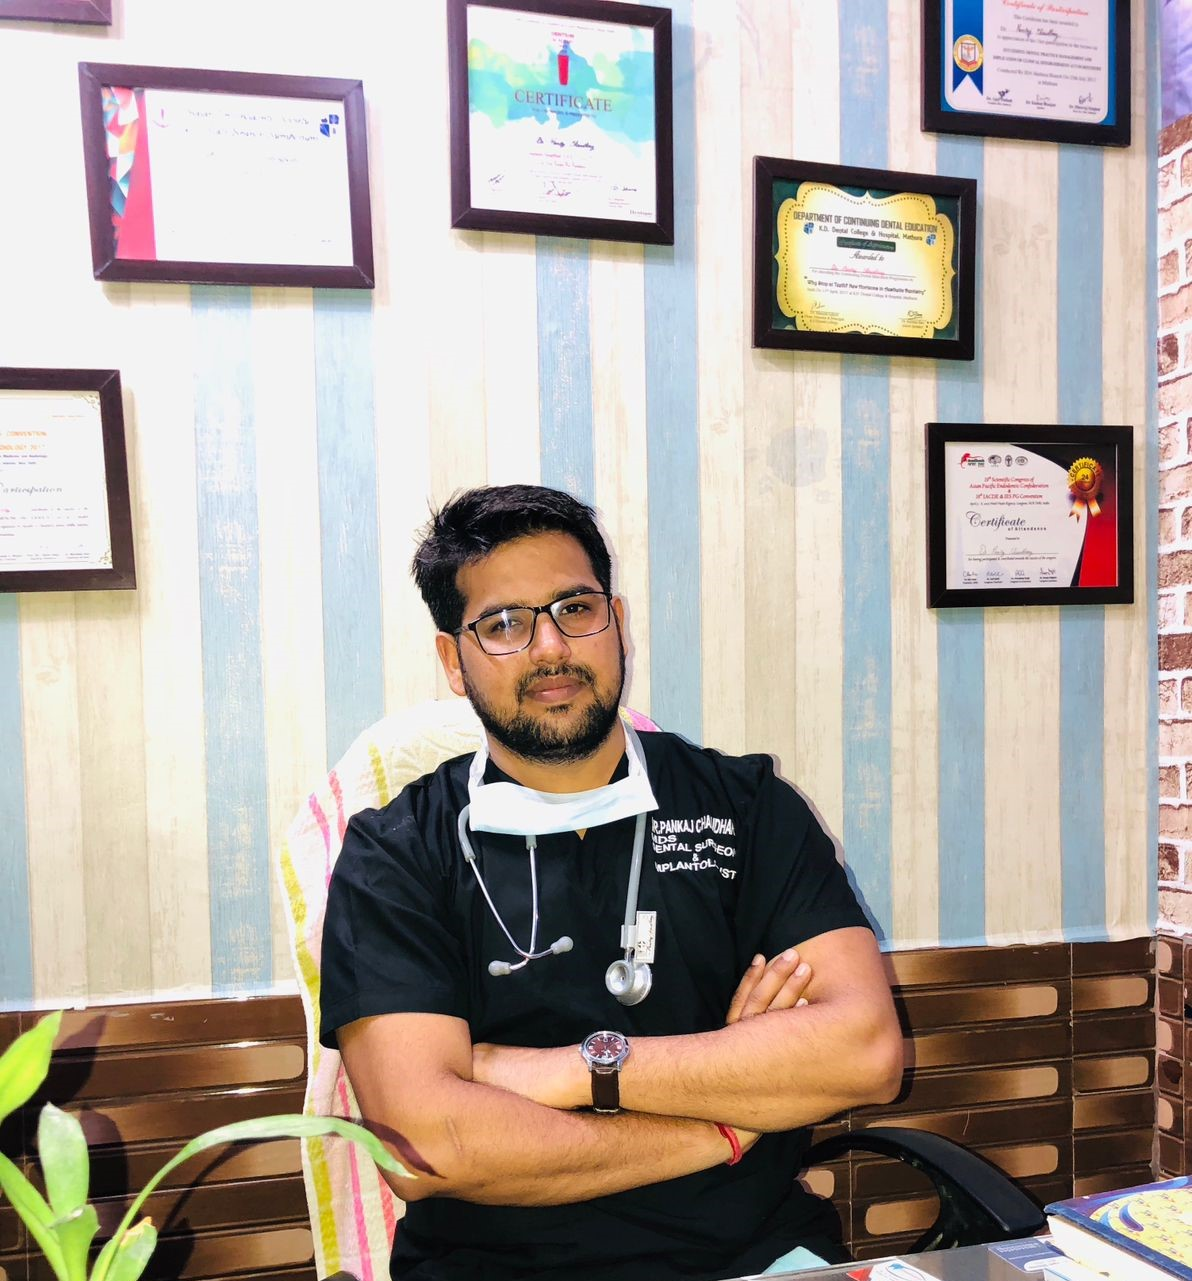
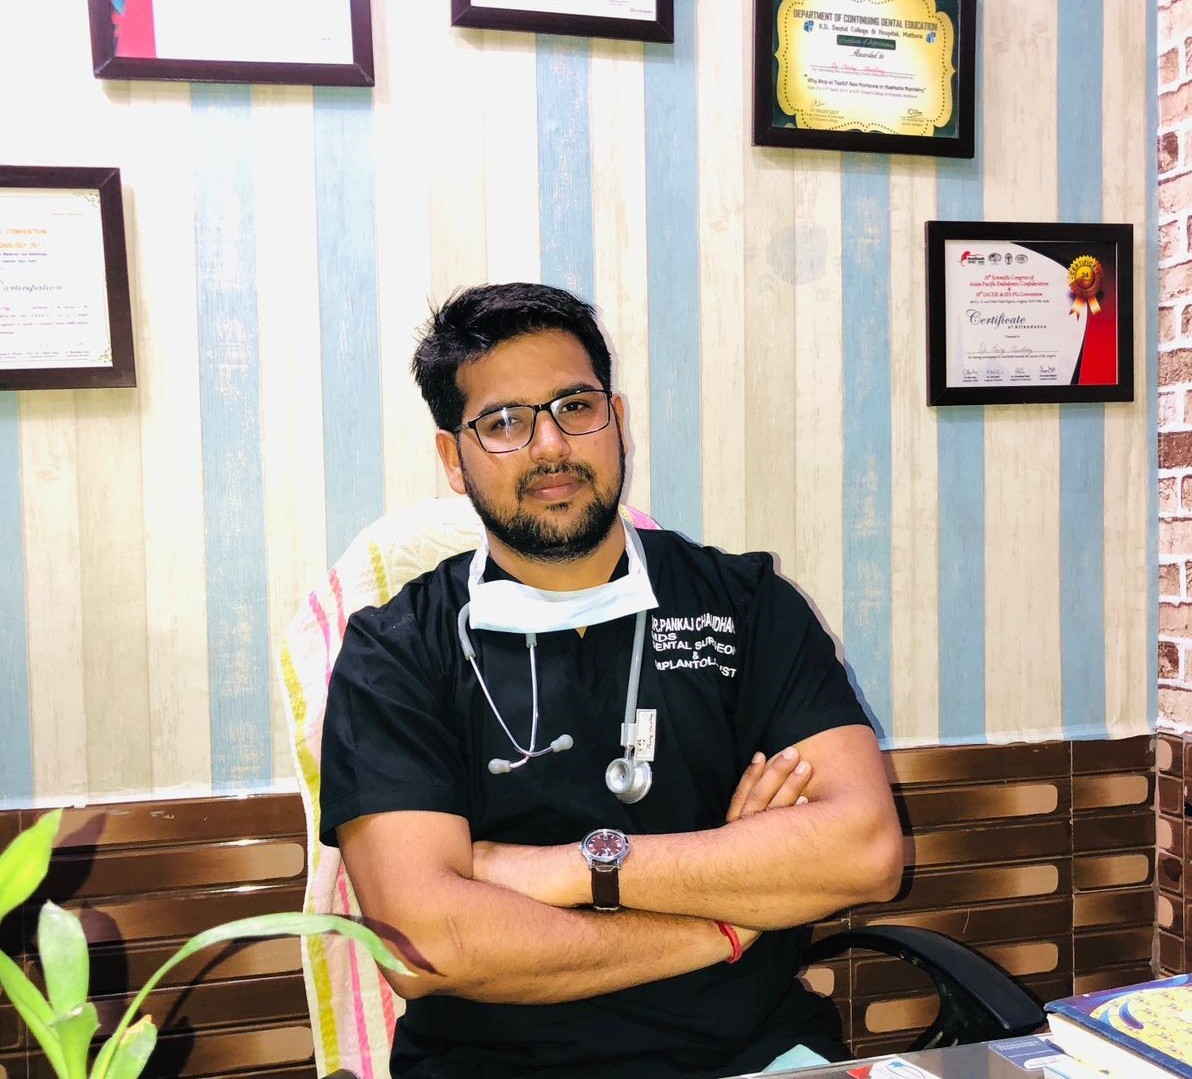
change numbers and update doctors image and name

diff --git a/components/footer.tsx b/components/footer.tsx
@@ -27,12 +27,12 @@ const contactInfo = [
   {
     icon: <Phone className="h-5 w-5" />,
     label: "24/7 Emergency",
-    value: "+91 05652444007",
+    value: "+91 0565355388",
   },
   {
     icon: <Mail className="h-5 w-5" />,
     label: "Email Us",
-    value: "contact@confidental.com",
+    value: "contact@myconfidental.in",
   },
   {
     icon: <MapPin className="h-5 w-5" />,
@@ -42,7 +42,19 @@ const contactInfo = [
   {
     icon: <Clock className="h-5 w-5" />,
     label: "Working Hours",
-    value: "Mon - Sat, 9:00 - 19:00",
+    value: "Mon - Sat, 10:00 AM - 2:00 PM",
+  },
+
+  {
+    icon: <Clock className="h-5 w-5" />,
+    label: "Working Hours",
+    value: "Mon - Sat, 10:00 - 2PM, 4:00 - 8PM",
+  },
+
+  {
+    icon: <Clock className="h-5 w-5" />,
+    label: "Working Hours",
+    value: "Sun, 10:00 AM - 2:00 PM",
   },
 ]
 
@@ -143,20 +155,20 @@ export function Footer() {
                 {contactInfo.map((info, index) => (
                   <li key={index} className="group flex items-start gap-3">
                     <div className="rounded-full bg-blue-500/10 p-2 text-blue-600 transition-colors group-hover:bg-blue-500 group-hover:text-white dark:bg-blue-400/10 dark:text-blue-400 dark:group-hover:bg-blue-400 dark:group-hover:text-white">
-                      {info.icon}
+                      {info?.icon}
                     </div>
                     <div>
-                      <p className="text-sm text-muted-foreground">{info.label}</p>
+                      <p className="text-sm text-muted-foreground">{info?.label}</p>
                       {index === 0 ? (
                         <a href={`tel:${info.value.replace(/\s/g, '')}`} className="font-medium hover:text-blue-600">
-                          {info.value}
+                          {info?.value}
                         </a>
                       ) : index === 1 ? (
-                        <a href={`mailto:${info.value}`} className="font-medium hover:text-blue-600">
+                        <a href={`mailto:${info?.value}`} className="font-medium hover:text-blue-600">
                           {info.value}
                         </a>
                       ) : (
-                        <p className="font-medium">{info.value}</p>
+                        <p className="font-medium">{info?.value}</p>
                       )}
                     </div>
                   </li>

diff --git a/components/expert-doctors-section.tsx b/components/expert-doctors-section.tsx
@@ -5,7 +5,8 @@ import { motion } from "framer-motion"
 import {Award, Clock } from 'lucide-react'
 import drPankaj from "@/public/dr-pankaj-chaudhary.jpeg"
 import drSunil from "@/public/dr-sunil-fauzdar.jpeg"
-import drAnuradha from "@/public/dr-anuradha-solanki.jpeg"
+import drKajal from "@/public/dr-kajal.jpeg"
+import drVipin from "@/public/dr-vipin-sharma.jpeg"
 
 
 const doctors = [
@@ -26,17 +27,17 @@ const doctors = [
     experience: 12,
   },
   {
-    name: "Dr. Anuradha Solanki",
+    name: "Dr. Kajal",
     edu: "B.D.S, M.D.S",
-    image: drAnuradha,
-    description: "Dr. Anuradha Skilled in oral surgeries and implants, focused on advanced procedures and patient care.",
+    image: drKajal,
+    description: "Dr. Kajal Skilled in oral surgeries and implants, focused on advanced procedures and patient care.",
     specialties: ["Dental Surgeon", "Dental Implants"],
     experience: 8,
   },
   {
     name: "Dr. Vipin Sharma",
     edu: "B.D.S, M.D.S",
-    image: "/placeholder.svg?height=400&width=300",
+    image: drVipin,
     description: "Specializing in orthodontics, Dr. Vipin is passionate about creating beautiful smiles.",
     specialties: ["Orthodontics", "Dentofacial Orthodontics"],
     experience: 15,
@@ -58,7 +59,7 @@ function DoctorCard({ doctor, index }: { doctor: typeof doctors[0]; index: numbe
             src={doctor.image}
             alt={doctor.name}
             fill
-            className="object-cover transition-transform duration-300 group-hover:scale-110"
+            className="object-cover object-top transition-transform duration-300 group-hover:scale-110"
           />
         </div>
         <h3 className="text-xl font-semibold text-gray-900 dark:text-white">{doctor.name}</h3>

diff --git a/app/contact/contact.tsx b/app/contact/contact.tsx
@@ -37,8 +37,8 @@ const clinics = {
         {
           icon: <Clock className="h-6 w-6" />,
           label: "Working Hours",
-          value: "Mon - Sat, 9:00 - 20:00",
-          description: "Sunday appointments available on request"
+          value: "Mon - Sat, 10:00 - 2PM, 4:00 - 8PM",
+          description: "Sunday appointments are only available from 10:00 AM to 2:00 PM"
         },
       ],
       mapSrc: "https://www.google.com/maps/embed?pb=!1m18!1m12!1m3!1d453782.24541579146!2d77.48315364877307!3d27.30774900583918!2m3!1f0!2f0!3f0!3m2!1i1024!2i768!4f13.1!3m3!1m2!1s0x39736f49ad86d7fd%3A0xa49e84a10e25ba20!2sShri%20Radha%20Town!5e0!3m2!1sen!2sin!4v1735219883035!5m2!1sen!2sin"
@@ -67,8 +67,8 @@ const clinics = {
         {
           icon: <Clock className="h-6 w-6" />,
           label: "Working Hours",
-          value: "Mon - Sat, 10:00 - 19:00",
-          description: "Closed on Sundays"
+          value: "Mon - Sat, 10:00 - 2PM, 4:00 - 8PM",
+          description: "Sunday appointments are only available from 10:00 AM to 2:00 PM"
         },
       ],
       mapSrc: "https://www.google.com/maps/embed?pb=!1m18!1m12!1m3!1d453782.24541579146!2d77.48315364877307!3d27.30774900583918!2m3!1f0!2f0!3f0!3m2!1i1024!2i768!4f13.1!3m3!1m2!1s0x39736f49ad86d7fd%3A0xa49e84a10e25ba20!2sShri%20Radha%20Town!5e0!3m2!1sen!2sin!4v1735220213516!5m2!1sen!2sin"

diff --git a/components/navbar.tsx b/components/navbar.tsx
@@ -125,7 +125,7 @@ export function Navbar() {
                 </div>
                 <div className="text-sm">
                   <p className="font-medium">Monday - Friday</p>
-                  <p className="text-xs text-muted-foreground">9:00 - 8PM</p>
+                  <p className="text-xs text-muted-foreground">10:00 - 2PM, 4:00 - 8PM</p>
                 </div>
               </div>
             </div>
@@ -231,7 +231,8 @@ export function Navbar() {
                               <Clock className="h-5 w-5" />
                             </div>
                             <div>
-                              <p className="font-medium text-blue-600 dark:text-blue-300">Mon - Fri: 9:00 - 8:00</p>
+                              <p className="font-medium text-blue-600 dark:text-blue-300">Mon - Fri: 10:00 - 2PM, <br/> 4:00 - 8PM</p>
+                              <p className="font-medium text-blue-600 dark:text-blue-300">Sun: 10:00 - 2PM</p>
                               <p className="text-sm text-blue-500 dark:text-blue-400">Working Hours</p>
                             </div>
                           </div>

diff --git a/components/stats-section.tsx b/components/stats-section.tsx
@@ -85,7 +85,7 @@ export function StatsSection() {
     },
     {
       icon: <Star className="h-8 w-8" />,
-      label: "Fillings",
+      label: "Orthodontic Cases",
       value: 5000,
     },
   ]
